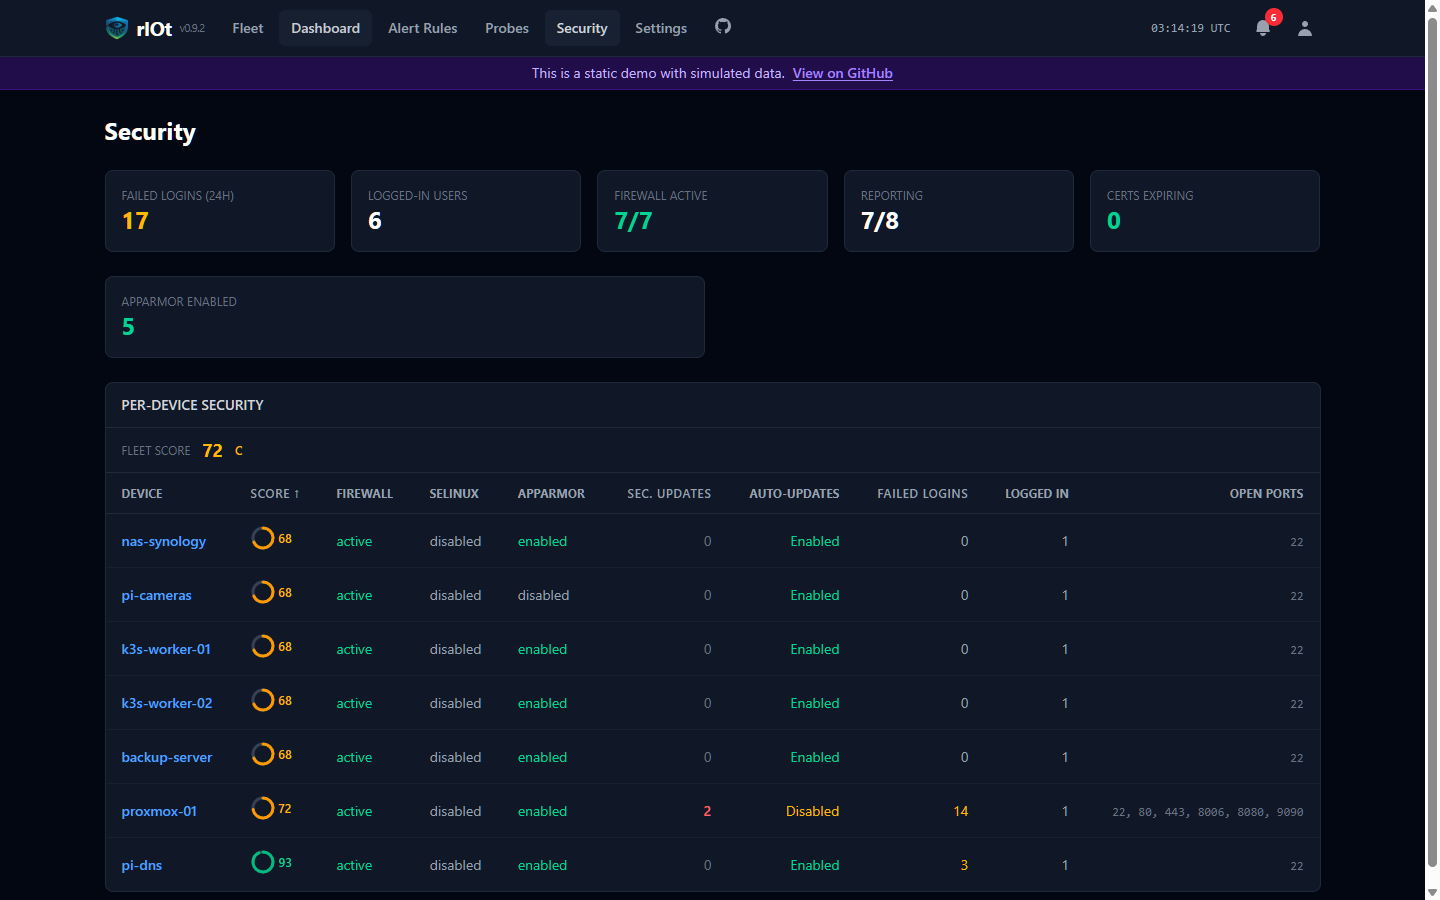
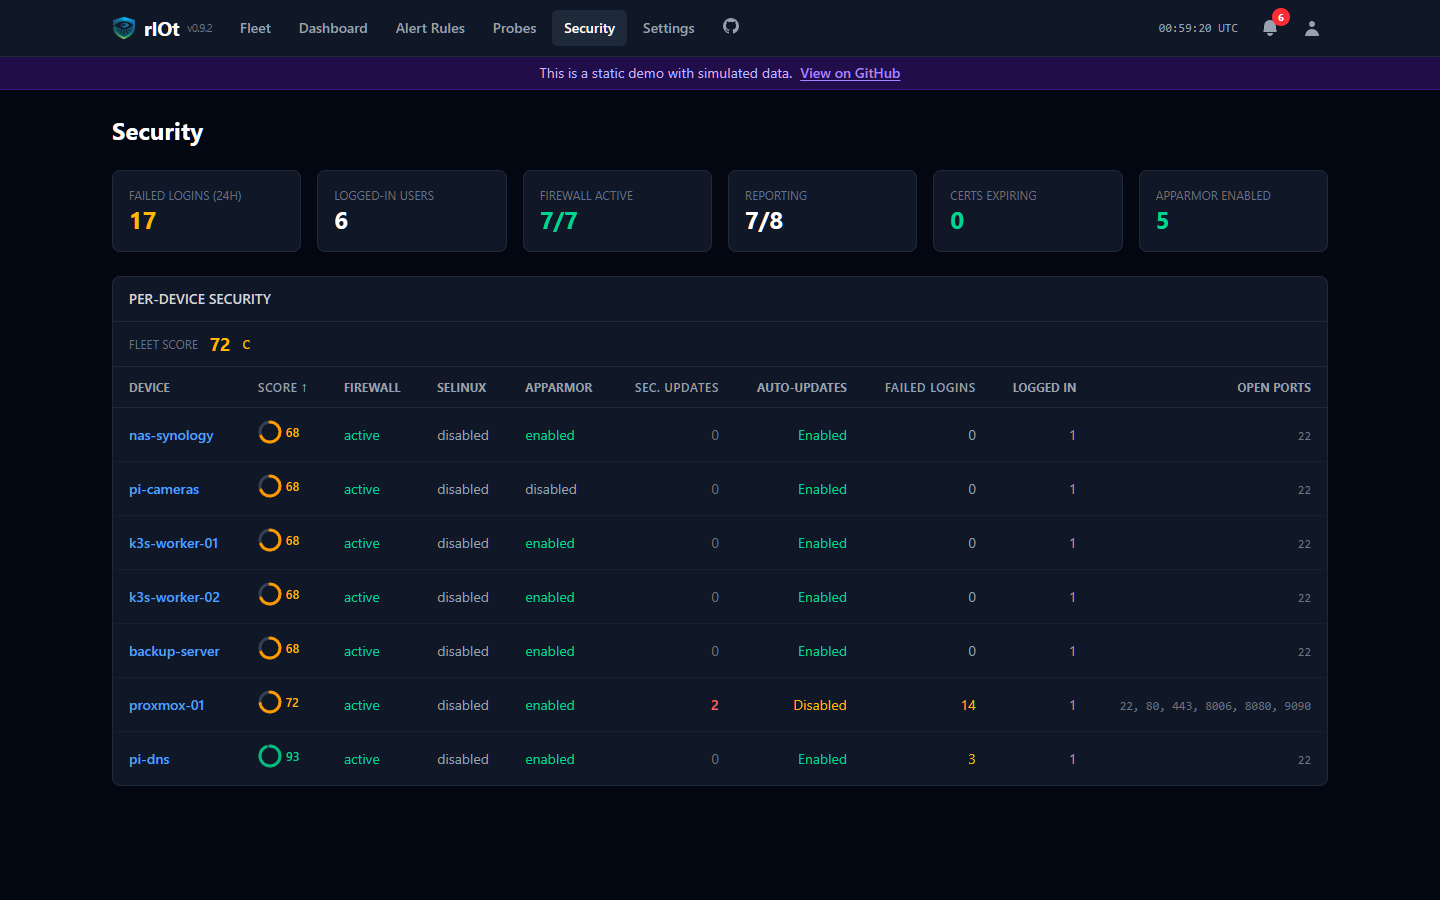
[UI-FOUNDATION-001] docs: after screenshots and visual verification in impl report

diff --git a/docs/implementation/UI-FOUNDATION-001-impl-report.md b/docs/implementation/UI-FOUNDATION-001-impl-report.md
@@ -285,16 +285,26 @@ Items 1 to 3 are conflicts the task instructions resolved; the rest need archite
 
 ## Visual verification (Clod)
 
-_To be completed by Clod: before/after screenshots and the AC-134 demo walkthrough._
+Clod checked the demo build (`web-demo`, port 5179) at 1440×900 with Playwright on 2026-10-18. All screenshots are in `docs/implementation/UI-FOUNDATION-001-screenshots/`.
 
-| Screenshot | Before | After | Notes |
+| Screenshot | Before | After | Result |
 |---|---|---|---|
-| Fleet | `before-fleet*.png` | pending | |
-| Toast stack | n/a | pending | |
-| Device detail chart tooltip | n/a | pending | |
-| Device detail header | `before-*` | pending | |
-| Dashboard (demo) | `before-*` | pending | |
-| Security | `before-*` | pending | |
+| Fleet (AC-119) | `before-fleet.png` | `after-fleet.png` | Hostnames render as reported (`backup-server`, not `BACKUP-SERVER`). "Last seen" uses `<RelativeTime>`. |
+| Toast stack (AC-052) | none (8 s inline banner below the table) | `after-toast-stack.png` | Fleet → Update Agents → Update all: a success toast at bottom-right ("Agent update dispatched", sent and skipped counts), with a Dismiss button. |
+| Confirm dialog (SEC-001) | none (native `confirm()`) | `after-confirm-dialog.png` | Device → Delete opens `role="dialog"` "Delete Device", focus starts on **Cancel**, and Escape closes it. |
+| Device detail header (AC-124, AC-133) | `before-device-top.png` | `after-device-detail-header.png` | The hostname keeps its case. The gauge has a "SECURITY SCORE" caption. Delete is a danger button in the right-hand cluster, behind a divider, no longer next to Docker · Probes · Terminal. |
+| Dashboard, demo (AC-135) | `before-dashboard.png` | `after-dashboard-demo.png` | Per-device charts, leaderboard and activity are populated. The "WebSocket disconnected" banner is gone. |
+| Security (AC-138) | `before-security.png` | `after-security.png` | All six stat cards fit one row. See fix 1 below. |
+| Device detail chart tooltip (AC-006) | n/a | not captured | Hover screenshots of recharts tooltips are unreliable in headless Playwright. The zone-labelled tooltip formatter is covered by unit tests (Section 8 mapping). |
+
+**AC-134 console walkthrough:** Clod visited Fleet, Dashboard, Device detail and Security in demo mode. `browser_console_messages` at warning level returned nothing: no "No queryFn" errors and no React warnings. Before this story, every page logged `[["feature-toggles"]]: No queryFn` and the Dashboard also logged `[["fleet-containers"]]` errors.
+
+**Fixes Clod made during visual verification** (commit `[UI-FOUNDATION-001] fix: visual-verification follow-ups`):
+1. **Security stat cards still orphaned.** The tightened demo data adds a "Certs Expiring" card, and SELinux/AppArmor sat in a separate 2-column grid, so "AppArmor Enabled" still wrapped onto a half-width row of its own. The MAC-module cards now render as `StatCard`s inside the single stat grid (`xl:grid-flow-col auto-cols-fr`), so every card shares one row.
+2. **Activity feed times had no date.** `ActivityRiver` rendered `Timestamp precision="time"`, so a 3-day-old "Device went offline" read `03:14:02 UTC` like a current event. It now uses `<RelativeTime>` ("3d ago"), with the absolute, zone-labelled time in the hover title.
+3. **Not a defect:** the text the accessibility tree showed at the end of `<body>` ("249K", then an ISO timestamp) is recharts' own `#recharts_measurement_span`. That span is `aria-hidden` and sits at `top:-20000px`, so nothing is visible.
+
+After the fixes: `npx tsc --noEmit` exits 0, and `npm run test:run` reports 56 files / 1070 tests passed.
 
 ## Release notes (for the technical writer, DEV-18)
 
